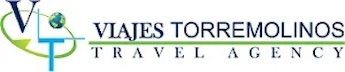
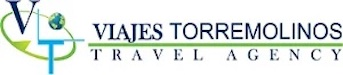
update images size

diff --git a/chamber/scripts/script_directory.js b/chamber/scripts/script_directory.js
@@ -72,7 +72,8 @@ fetch(requestURL)
 		// Build the image attributes by using the setAttribute method for the src, alt, and loading attribute values. (Fill in the blank with the appropriate variable).
 		img.setAttribute('src', commerce.imageurl);
 		img.setAttribute('alt', commerce.image );
-		
+    img.setAttribute('width', "345px");
+		img.setAttribute('height', "75px" );
 		a_link.setAttribute('href', commerce.website_url);
 		p_address.setAttribute('title', commerce_address);
 		p_numbers_thelefone.setAttribute('title', list_telephones);
